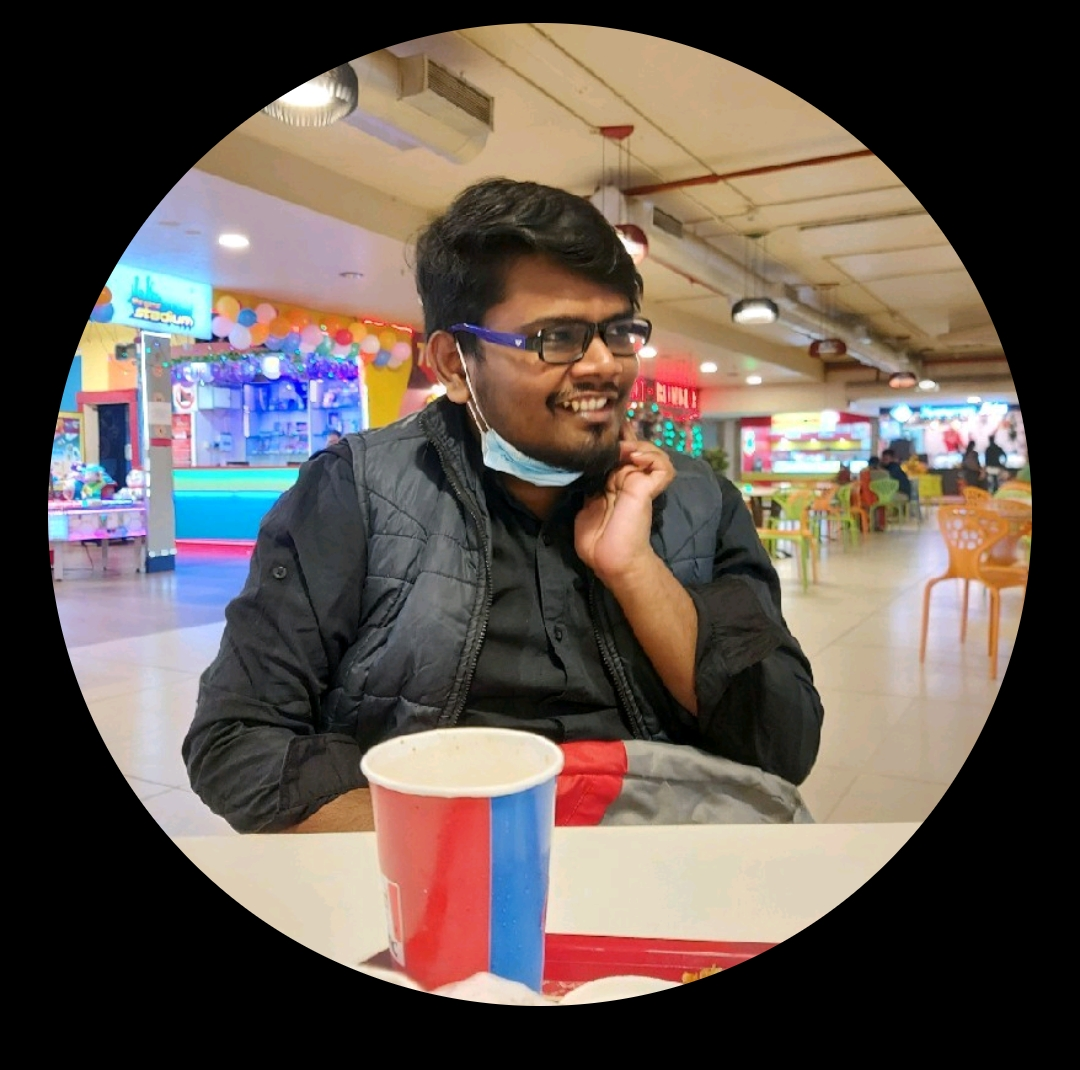
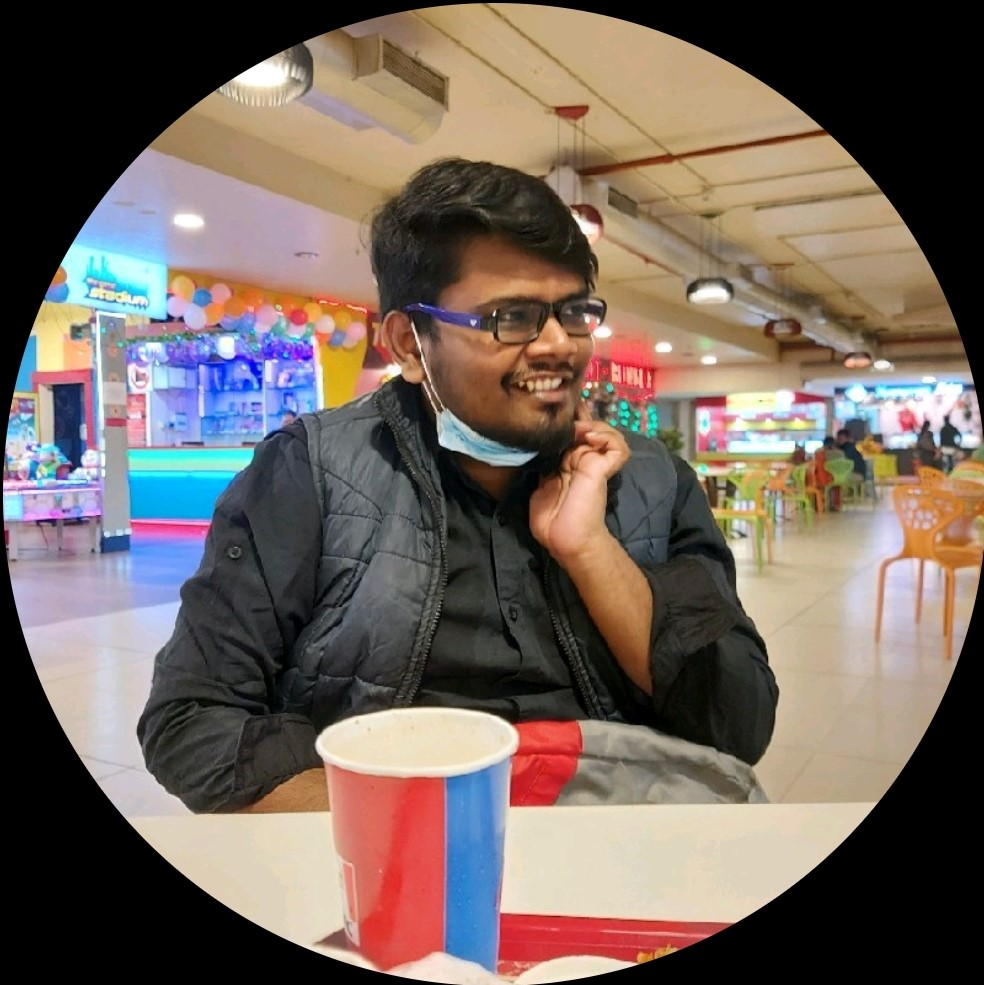
Final Commit

diff --git a/style sheets/index.css b/style sheets/index.css
@@ -62,9 +62,7 @@ span{
     align-content: center;
     justify-content: center;
     margin-top: 40px;
-    margin-bottom: 4px;
-    
-    
+    margin-bottom: 50px;   
 }
 
 
@@ -102,18 +100,16 @@ header{
     padding: 2px 3px;
 }
 
-#icons{
+/* #icons{
     float: right;
-}
+} */
 .content{
-    /* background-color: red; */
-    height: 300px;
     width: auto;
     display: grid;
-    /* grid-template-columns: 1fr 1fr 1fr; */
     justify-content: center;
     grid-gap: 20px;
     padding:12px 20px;
+    margin-bottom: 50px;
     align-items: center;
     grid-template-columns: repeat(auto-fit,minmax(280px,1fr));
 }
@@ -125,10 +121,13 @@ header{
     height: 250px;
     width: auto;
     border:0.5px solid rgba(44, 255, 72, 0.404);
-    grid-template-rows: 1fr;
+    /* grid-template-rows: 1fr; */
+    margin-bottom: 60px;
     padding: 10px 32px;
     border-radius: 15px;
-    display: grid;
+    display: flex;
+    flex-direction: column;
+    align-items: center;
     justify-content: center;
     transition: 1s ease-in-out;
 }
@@ -158,14 +157,29 @@ header{
     
 }
 
+.footer{
+    background-color: black;
+    height: fit-content;
+    width: 100%;
+    /* bottom : 10px;    */
+}
 
+.footer__text{
+    text-align: center;
+    justify-content: center;
+    font-size: 20px;
+    font-weight: 500;
+    color: lawngreen;
+    /* border-radius: 50px; */
+}
 
 #img1{
     border-radius: 90px;
+    border: 3px solid white;
     display: flex;
     align-items: center;
     align-self: center;
-    margin:0%;
+    margin-bottom: 15px;
     margin-top: 6px;
     
 }

diff --git a/index.html b/index.html
@@ -160,9 +160,11 @@
             </div>
         </div>
 
-
-
     </div>
+
+<div class="footer">
+    <div class="footer__text">Copyright <span>&copy;</span> by Pawan Kumar Yadav</div>
+</div>
 
     <script src="./typed.js"></script>
     <script>
